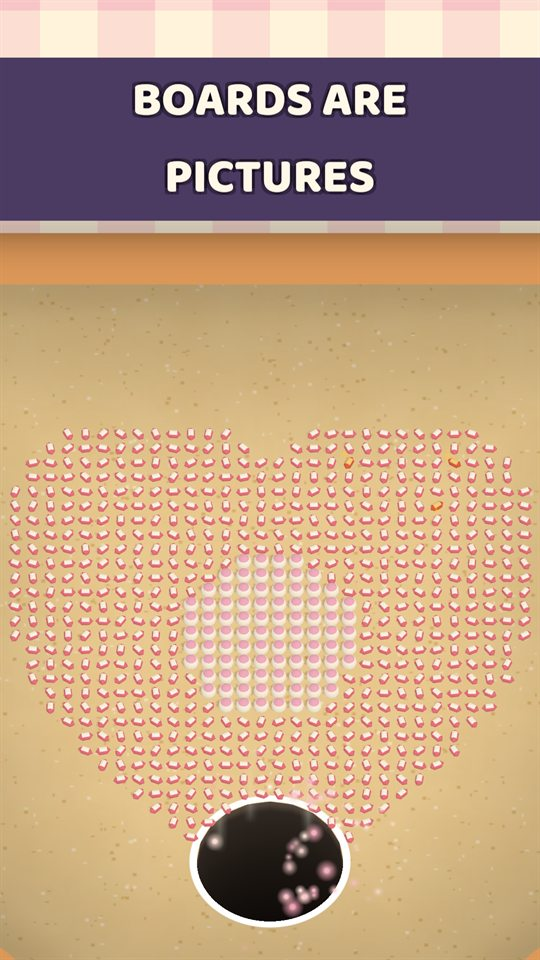
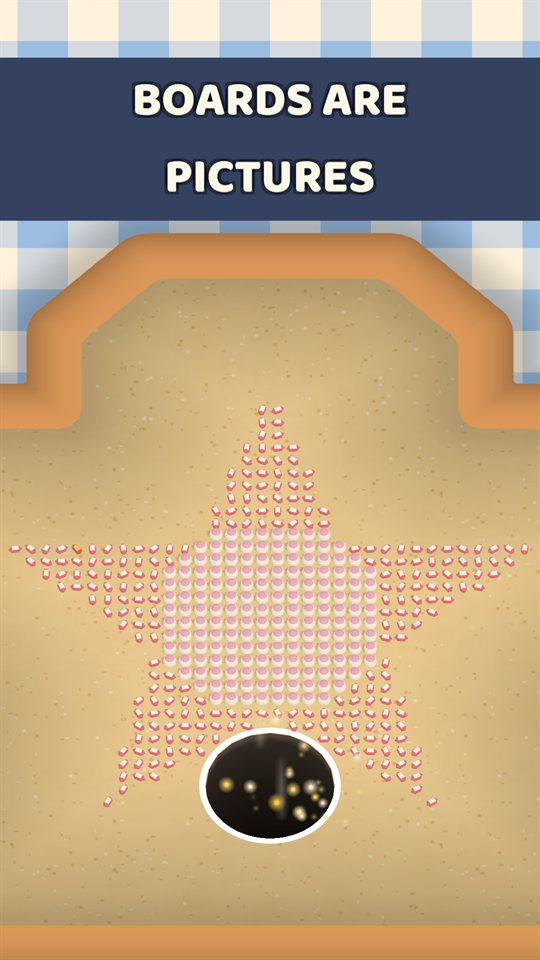
Hole Crunch screenshots: blue tablecloth and navy captions
Refreshed from the game's store shots after the colour scheme was softened. The picture-board shot
is the star now, not the heart.

diff --git a/hole-crunch/index.html b/hole-crunch/index.html
@@ -36,7 +36,7 @@
     <li><img src="/hole-crunch/img/shot-01.jpg" alt="The hole starting small on a board of sprinkles laid out as a cat" width="540" height="960" loading="lazy"></li>
     <li><img src="/hole-crunch/img/shot-02.jpg" alt="A bakery table of cakes, donuts and macarons around the hole" width="540" height="960" loading="lazy"></li>
     <li><img src="/hole-crunch/img/shot-03.jpg" alt="A bigger hole swallowing treats beside a layered cake" width="540" height="960" loading="lazy"></li>
-    <li><img src="/hole-crunch/img/shot-05.jpg" alt="A board of sprinkles arranged into a heart" width="540" height="960" loading="lazy"></li>
+    <li><img src="/hole-crunch/img/shot-05.jpg" alt="A board of sprinkles arranged into a star" width="540" height="960" loading="lazy"></li>
   </ul>
 
   <section aria-labelledby="about-title">
